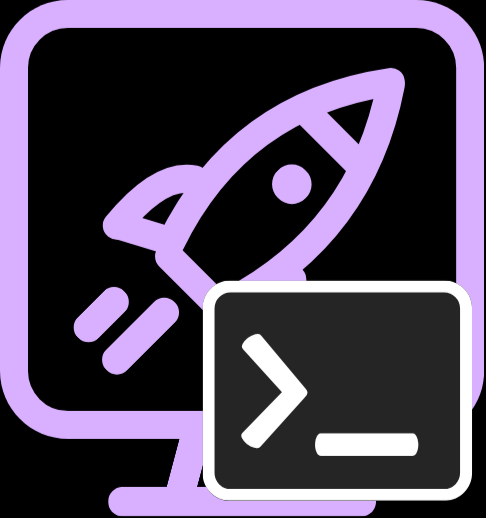
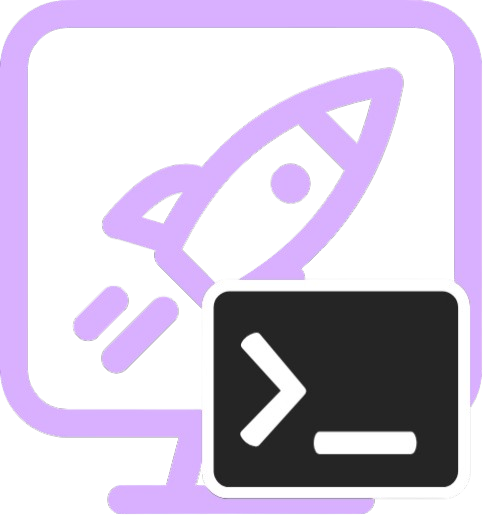
start off app class

diff --git a/engine/src/window/window.cpp b/engine/src/window/window.cpp
@@ -1,0 +1,69 @@
+#include "window.h"
+
+#define IDR_WIN_ICON 101
+
+bool Window::Create(const char* title, int width, int height)
+{
+    glfwInit();
+    glfwWindowHint(GLFW_CLIENT_API, GLFW_NO_API);
+    window = glfwCreateWindow(width, height, title, nullptr, nullptr);
+    return window != nullptr;
+}
+
+void Window::Destroy()
+{
+    glfwDestroyWindow(window);
+    glfwTerminate();
+    window = nullptr;
+}
+
+bool Window::ShouldClose()
+{
+    return glfwWindowShouldClose(window);
+}
+
+void Window::PollEvents()
+{
+    glfwPollEvents();
+}
+
+void Window::DefaultIcon()
+{
+    HRSRC res = FindResource(nullptr, MAKEINTRESOURCE(IDR_WIN_ICON), RT_RCDATA);
+    if (!res) { OutputDebugStringA("set_window_icon: FindResource failed\n"); return; }
+
+    HGLOBAL mem = LoadResource(nullptr, res);
+    if (!mem) { OutputDebugStringA("set_window_icon: LoadResource failed\n"); return; }
+
+    void* data = LockResource(mem);
+    if (!data) { OutputDebugStringA("set_window_icon: LockResource failed\n"); return; }
+
+    DWORD size = SizeofResource(nullptr, res);
+
+    int width, height, channels;
+    unsigned char* pixels = stbi_load_from_memory((const stbi_uc*)data, (int)size, &width, &height, &channels, 4);
+    if (!pixels) { OutputDebugStringA("set_window_icon: stbi_load_from_memory failed\n"); return; }
+
+    GLFWimage icon{ width, height, pixels };
+    glfwSetWindowIcon(window, 1, &icon);
+    stbi_image_free(pixels);
+
+    // HRSRC res = FindResource(nullptr, MAKEINTRESOURCE(IDR_WIN_ICON), RT_RCDATA);
+    // if (!res) return;
+
+    // HGLOBAL mem = LoadResource(nullptr, res);
+    // if (!mem) return;
+
+    // void* data = LockResource(mem);
+    // if (!data) return;
+
+    // DWORD size = SizeofResource(nullptr, res);
+
+    // int width, height, channels;
+    // unsigned char* pixels = stbi_load_from_memory((const stbi_uc*)data, (int)size, &width, &height, &channels, 4);
+    // if (!pixels) return;
+
+    // GLFWimage icon{ width, height, pixels };
+    // glfwSetWindowIcon(handle, 1, &icon);
+    // stbi_image_free(pixels);
+}

diff --git a/editor/src/editor_app.cpp b/editor/src/editor_app.cpp
@@ -1,5 +1,31 @@
 #include "editor_app.h"
 #include <GLFW/glfw3.h>
+#include <windows.h>
+#include <stb_image.h>
+
+#define IDR_WIN_ICON 101
+
+static void set_window_icon(GLFWwindow* window)
+{
+    HRSRC res = FindResource(nullptr, MAKEINTRESOURCE(IDR_WIN_ICON), RT_RCDATA);
+    if (!res) { OutputDebugStringA("set_window_icon: FindResource failed\n"); return; }
+
+    HGLOBAL mem = LoadResource(nullptr, res);
+    if (!mem) { OutputDebugStringA("set_window_icon: LoadResource failed\n"); return; }
+
+    void* data = LockResource(mem);
+    if (!data) { OutputDebugStringA("set_window_icon: LockResource failed\n"); return; }
+
+    DWORD size = SizeofResource(nullptr, res);
+
+    int width, height, channels;
+    unsigned char* pixels = stbi_load_from_memory((const stbi_uc*)data, (int)size, &width, &height, &channels, 4);
+    if (!pixels) { OutputDebugStringA("set_window_icon: stbi_load_from_memory failed\n"); return; }
+
+    GLFWimage icon{ width, height, pixels };
+    glfwSetWindowIcon(window, 1, &icon);
+    stbi_image_free(pixels);
+}
 
 int editor_main()
 {
@@ -7,6 +33,8 @@ int editor_main()
     glfwWindowHint(GLFW_CLIENT_API, GLFW_NO_API);
 
     GLFWwindow* window = glfwCreateWindow(1280, 720, "Ballistic Editor", nullptr, nullptr);
+
+    set_window_icon(window);
 
     while (!glfwWindowShouldClose(window))
     {

diff --git a/engine/src/app/application.cpp b/engine/src/app/application.cpp
@@ -1,0 +1,28 @@
+#include "application.h"
+
+bool Application::Create(const char* title, int width, int height)
+{
+    bool result = window.Create(title, width, height);
+    if (!result) {
+        std::cout << "stupid fucker" << std::endl;
+    }
+    
+    return result;
+}
+
+void Application::Run()
+{
+    OnInit();
+
+    while (!window.ShouldClose()) {
+        window.PollEvents();
+        OnUpdate();
+    }
+
+    OnShutdown();
+}
+
+void Application::Destroy()
+{
+    window.Destroy();
+}

diff --git a/engine/src/pch.h b/engine/src/pch.h
@@ -1,0 +1,28 @@
+#pragma once
+
+#include <iostream>
+
+#ifndef _WIN32
+#include <windows.h>
+#endif
+
+#define GLFW_INCLUDE_VULKAN
+#include <GLFW/glfw3.h>
+#include <GLFW/glfw3native.h>
+
+#define GLM_FORCE_DEPTH_ZERO_TO_ONE
+#define GLM_ENABLE_EXPERIMENTAL
+#include <glm/glm.hpp>
+#include <glm/gtc/matrix_transform.hpp>
+#include <glm/gtx/euler_angles.hpp>
+#include <glm/gtc/type_ptr.hpp>
+#include <glm/gtx/norm.hpp>
+#include <glm/gtc/quaternion.hpp>
+#include <glm/gtx/quaternion.hpp>
+using namespace glm;
+
+#include <imgui.h>
+#include <backends/imgui_impl_vulkan.h>
+#include <backends/imgui_impl_glfw.h>
+
+#include <stb_image.h>

diff --git a/engine/src/app/application.h b/engine/src/app/application.h
@@ -1,0 +1,17 @@
+#pragma once
+#include "pch.h"
+#include "window/window.h"
+
+struct Application
+{
+    Window window;
+
+    bool Create(const char* title, int width, int height);
+    void Run();
+    void Destroy();
+
+protected:
+    virtual void OnInit() {}
+    virtual void OnUpdate() {}
+    virtual void OnShutdown() {}
+};

diff --git a/engine/src/window/window.h b/engine/src/window/window.h
@@ -1,0 +1,15 @@
+#pragma once
+#include "pch.h"
+
+struct Window
+{
+    GLFWwindow* window = nullptr;
+
+    bool Create(const char* title, int width, int height);
+    void Destroy();
+
+    bool ShouldClose();
+    void PollEvents();
+
+    void DefaultIcon();
+};

diff --git a/engine/src/impl/stb_image_impl.cpp b/engine/src/impl/stb_image_impl.cpp
@@ -1,0 +1,2 @@
+#define STB_IMAGE_IMPLEMENTATION
+#include "stb_image.h"